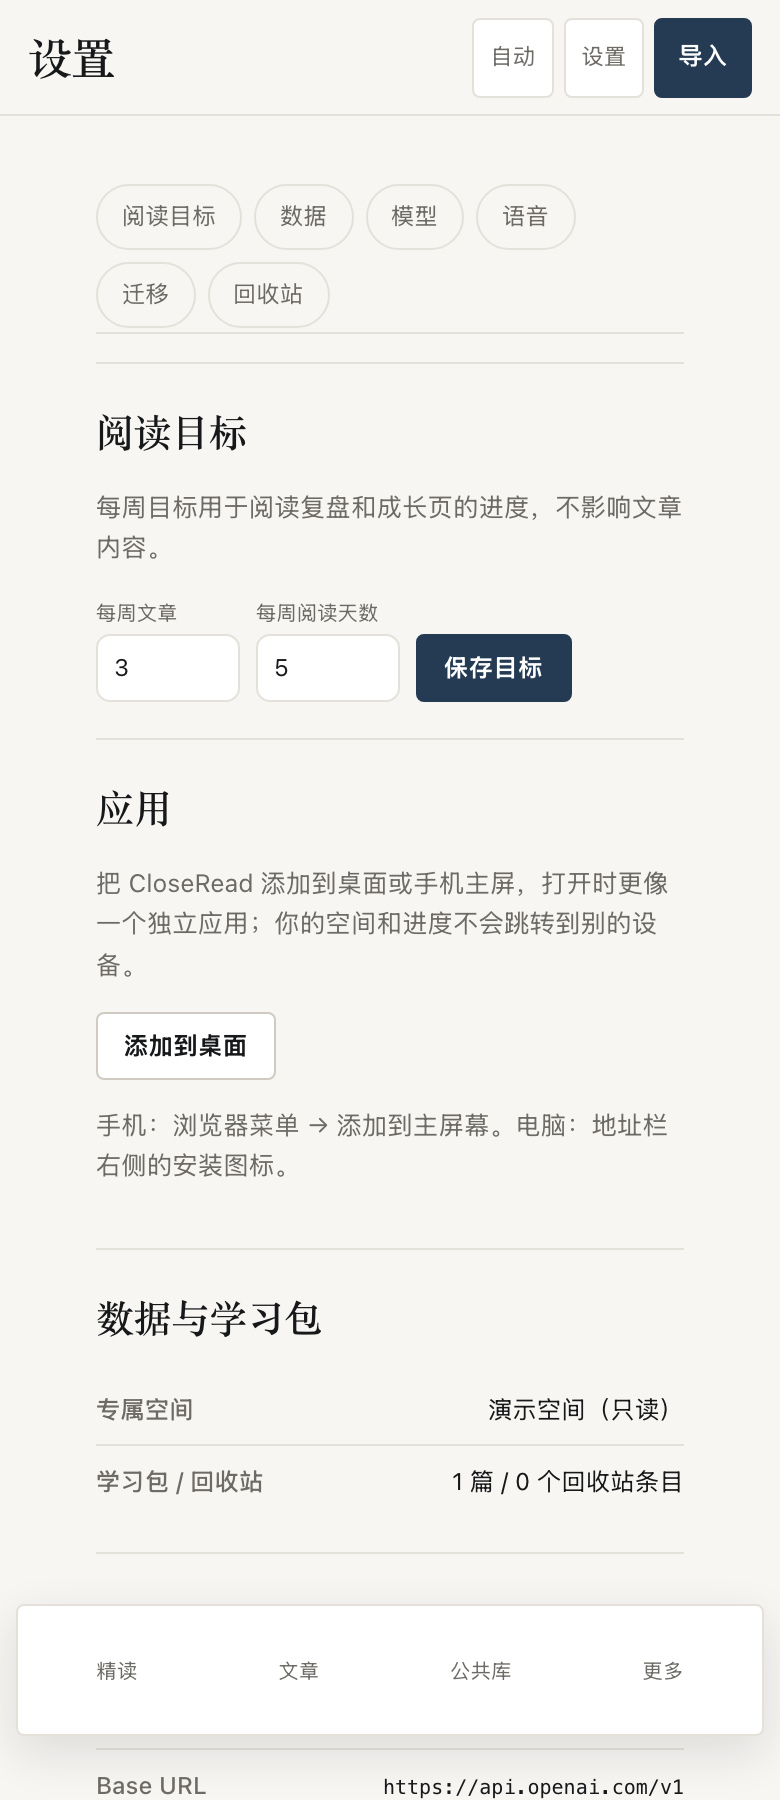
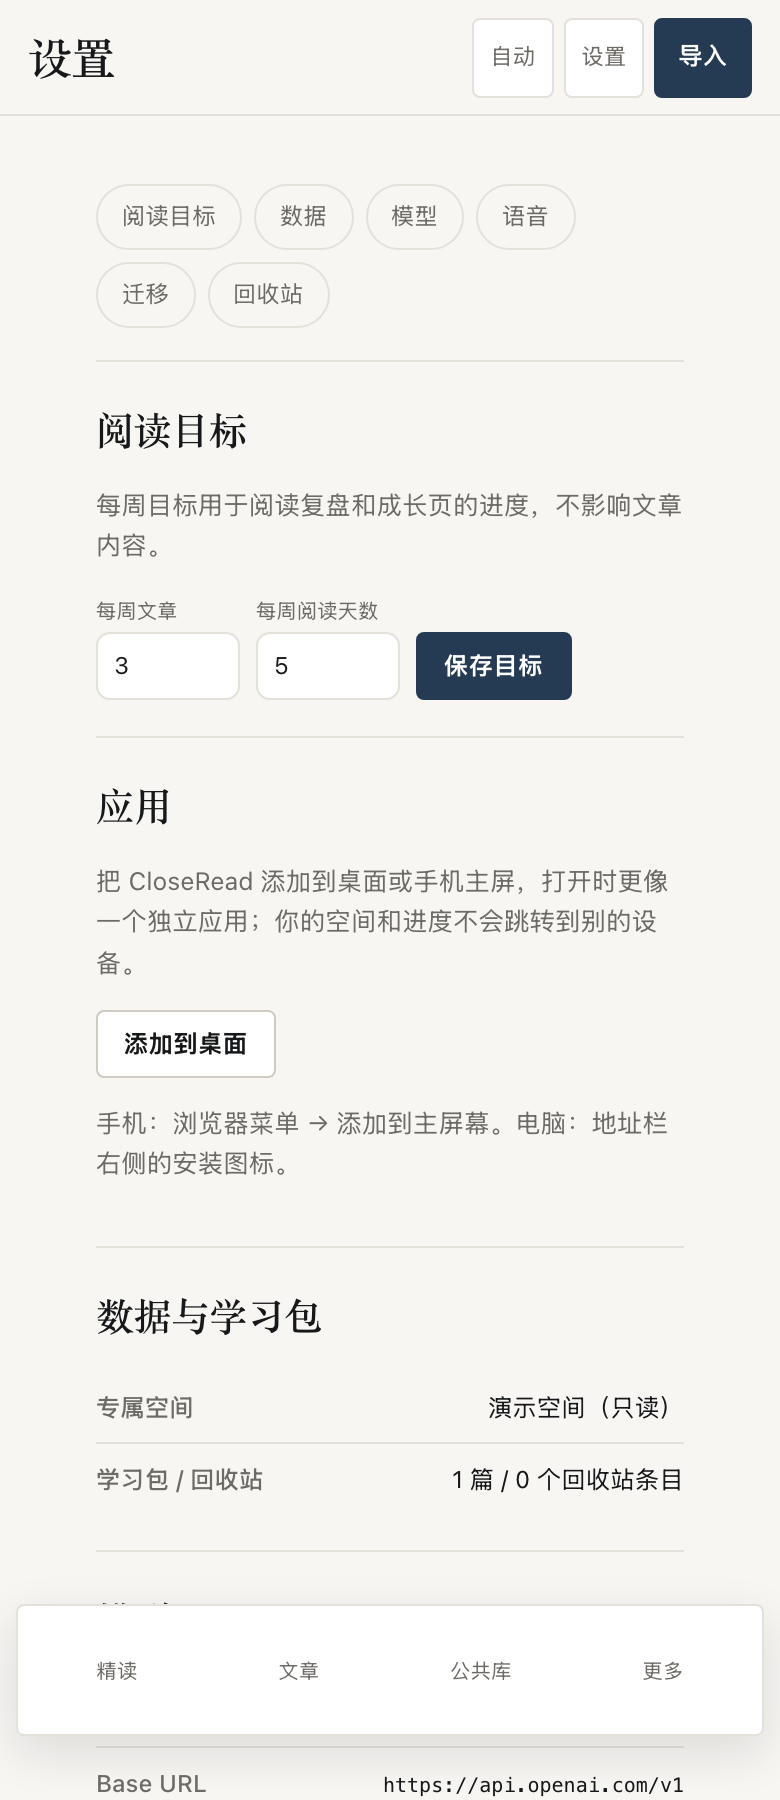
fix: the /lab dropdown uses the same centred chevron

diff --git a/src/review/lab.css b/src/review/lab.css
@@ -214,7 +214,8 @@ label.field { display: block; margin: 12px 0 5px; color: var(--muted); font-size
 .cselect { position: relative; display: inline-flex; min-width: 0; }
 .cselect-trigger { display: inline-flex; align-items: center; justify-content: space-between; gap: 8px; width: 100%; border: 1px solid var(--line-strong); background: var(--surface); color: var(--ink); border-radius: 10px; padding: 9px 11px; font: inherit; font-size: 12px; cursor: pointer; white-space: nowrap; }
 .cselect-trigger:hover, .cselect-trigger[aria-expanded="true"] { border-color: var(--accent); }
-.cselect-arrow { color: var(--muted); font-size: 10px; }
+.cselect-arrow { display: inline-flex; align-items: center; justify-content: center; width: 10px; height: 6px; color: var(--muted); }
+.cselect-arrow svg { display: block; }
 .cselect-menu { position: absolute; left: 0; top: calc(100% + 4px); z-index: 80; min-width: 100%; max-height: 260px; overflow: auto; padding: 5px; border: 1px solid var(--line); border-radius: 10px; background: var(--surface); box-shadow: 0 10px 30px rgba(28,26,22,.16); }
 .cselect-option { display: block; width: 100%; border: 0; background: transparent; color: var(--ink); text-align: left; padding: 7px 9px; border-radius: 6px; font: inherit; font-size: 12.5px; white-space: nowrap; cursor: pointer; }
 .cselect-option:hover, .cselect-option.is-selected { background: var(--surface-2); color: var(--accent); }

diff --git a/src/review/lab.ts b/src/review/lab.ts
@@ -55,7 +55,7 @@ ${pwaHead()}
           <div class="cselect lab-cselect" data-cselect>
             <input type="hidden" id="lab-scope" value="all">
             <button class="cselect-trigger" type="button" aria-haspopup="listbox" aria-expanded="false">
-              <span class="cselect-label">全部学习词</span><span class="cselect-arrow">⌄</span>
+              <span class="cselect-label">全部学习词</span><span class="cselect-arrow" aria-hidden="true"><svg viewBox="0 0 10 6" width="9" height="6"><path d="M1 1l4 4 4-4" fill="none" stroke="currentColor" stroke-width="1.4" stroke-linecap="round" stroke-linejoin="round"/></svg></span>
             </button>
             <div class="cselect-menu" role="listbox" hidden></div>
           </div>
